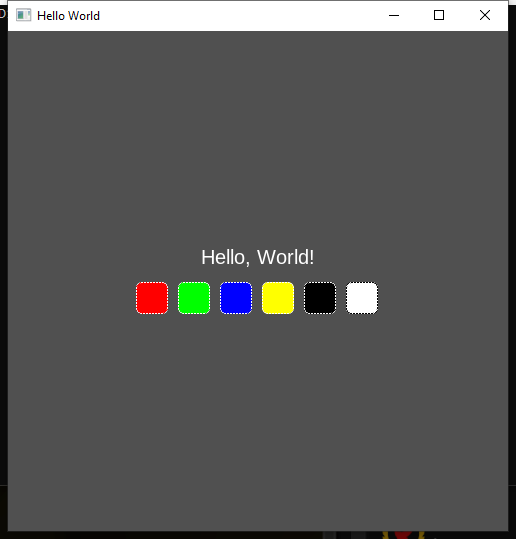
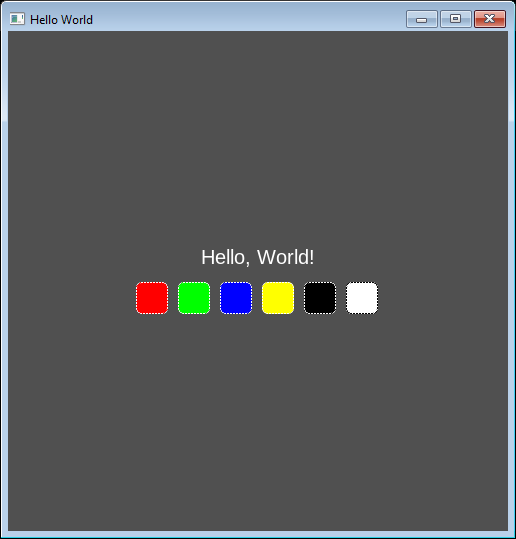
feat: add paintQuadsOnly and drawSceneWithText for D3D11
- Added Div.paintQuadsOnly() - paints quads without text to scene
- Added D3D11Renderer.drawSceneWithText() - renders scene with optional text
- Fixed capture scripts to use PrintWindow API (works with overlapping windows)
- Text is rendered separately via D3D11TextRenderer for now

This separates text rendering from the scene system because:
- TextSystem uses its own glyph atlas for OpenGL
- D3D11TextRenderer has a separate D3D11 texture atlas
- Sharing the atlas requires more refactoring

The text helper in hello_world.zig is temporary until we integrate
the text atlas properly with the D3D11 renderer.

Changed region(s): [[0.0, 0.0, 1.0, 1.0]]

diff --git a/examples/gpui_ports/hello_world/report.html b/examples/gpui_ports/hello_world/report.html
@@ -67,7 +67,7 @@
             <div class="stat-label">Rust LOC</div>
         </div>
         <div class="stat">
-            <div class="stat-value">209</div>
+            <div class="stat-value">208</div>
             <div class="stat-label">Zig LOC</div>
         </div>
     </div>
@@ -310,8 +310,8 @@ const HelloWorld = struct {
 // Text Rendering Helper
 // ============================================================================
 
-/// Recursively draw text for div tree using D3D11TextRenderer
-fn drawTextForDiv(
+/// Draw text for all divs in tree using D3D11TextRenderer
+fn renderDivText(
     d: *const div_mod.Div,
     layout_tree: *const zaffy.Zaffy,
     text_renderer: *D3D11TextRenderer,
@@ -324,19 +324,17 @@ fn drawTextForDiv(
     const x = parent_x + lay.location.x;
     const y = parent_y + lay.location.y;
 
-    // Draw text content if present
     if (d.text_content_val) |text| {
         const text_w = text_renderer.measureText(text);
         const tx = x + (lay.size.width - text_w) / 2;
-        const ty = y + lay.size.height / 2 + 6; // baseline offset
+        const ty = y + lay.size.height / 2 + 6;
         const tc = d.text_color_val.toRgba();
         text_renderer.draw(renderer, text, tx, ty, .{ tc.r, tc.g, tc.b, tc.a });
     }
 
-    // Recurse into children
     for (d.children[0..d.child_count]) |maybe_child| {
         if (maybe_child) |child| {
-            drawTextForDiv(child, layout_tree, text_renderer, renderer, x, y);
+            renderDivText(child, layout_tree, text_renderer, renderer, x, y);
         }
     }
 }
@@ -405,13 +403,14 @@ pub fn main() !void {
         renderer.beginFrame();
         renderer.clear(0.314, 0.314, 0.314, 1.0); // rgb(0x505050)
 
+        // Paint quads only (text rendered separately for D3D11)
         scene.clear();
-        root.paint(&amp;scene, &amp;text_system, 0, 0, &amp;layout, null, null);
+        root.paintQuadsOnly(&amp;scene, 0, 0, &amp;layout);
         scene.finish();
         renderer.drawScene(&amp;scene);
 
-        // Draw text (separate from scene for now)
-        drawTextForDiv(root, &amp;layout, &amp;text_renderer, &amp;renderer, 0, 0);
+        // Render text using D3D11TextRenderer
+        renderDivText(root, &amp;layout, &amp;text_renderer, &amp;renderer, 0, 0);
 
         renderer.present(true);
     }
